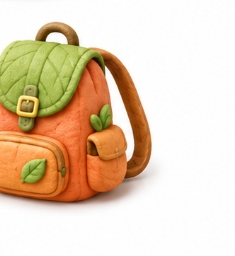
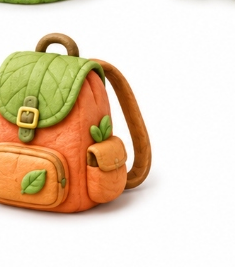
Kesif Ormani: patika baglayicisi nokta yerine cizgi deseni
Kategoriler arasindaki baglayici noktalar (3 sabit nokta) yerine
7 ince cizgiden olusan bir patika deseni; gorsel ince ayar,
kesif_kucaklamasi.png guncellemesiyle birlikte.

diff --git a/app/(tabs)/index.tsx b/app/(tabs)/index.tsx
@@ -676,9 +676,9 @@ export default function App() {
                   <React.Fragment key={cat.id}>
                     {n > 0 && (
                       <View style={styles.pathConnector}>
-                        <View style={styles.pathDot} />
-                        <View style={styles.pathDot} />
-                        <View style={styles.pathDot} />
+                        {Array.from({ length: 7 }).map((_, d) => (
+                          <View key={d} style={styles.pathDash} />
+                        ))}
                       </View>
                     )}
                     <View style={[styles.pathRow, { justifyContent: align }]}>
@@ -1019,9 +1019,9 @@ const styles = StyleSheet.create({
   forestTitle: { fontSize: 20, fontWeight: '900', color: '#1B5E20', textAlign: 'center' },
   forestSubtitle: { fontSize: 13, fontWeight: '600', color: '#0B3D66', opacity: 0.7, marginTop: 2, textAlign: 'center' },
   pathWrap: { width: '100%', maxWidth: 440, marginBottom: 4 },
-  pathRow: { flexDirection: 'row', width: '100%' },
-  pathConnector: { alignItems: 'center', justifyContent: 'center', gap: 5, paddingVertical: 6 },
-  pathDot: { width: 7, height: 7, borderRadius: 4, backgroundColor: 'rgba(11,61,102,0.28)' },
+  pathRow: { flexDirection: 'row', width: '100%', marginVertical: -6 },
+  pathConnector: { alignItems: 'center', justifyContent: 'center', gap: 3, paddingVertical: 2 },
+  pathDash: { width: 6, height: 11, borderRadius: 3, backgroundColor: '#C99A5B', opacity: 0.55 },
 
   logoutBtn: { marginTop: 26, backgroundColor: 'rgba(255,82,82,0.92)', paddingVertical: 12, paddingHorizontal: 28, borderRadius: 22, alignSelf: 'center', shadowColor: '#000', shadowOffset: { width: 0, height: 4 }, shadowOpacity: 0.2, shadowRadius: 4, elevation: 4 },
   logoutText: { color: '#fff', fontSize: 16, fontWeight: '800' },
